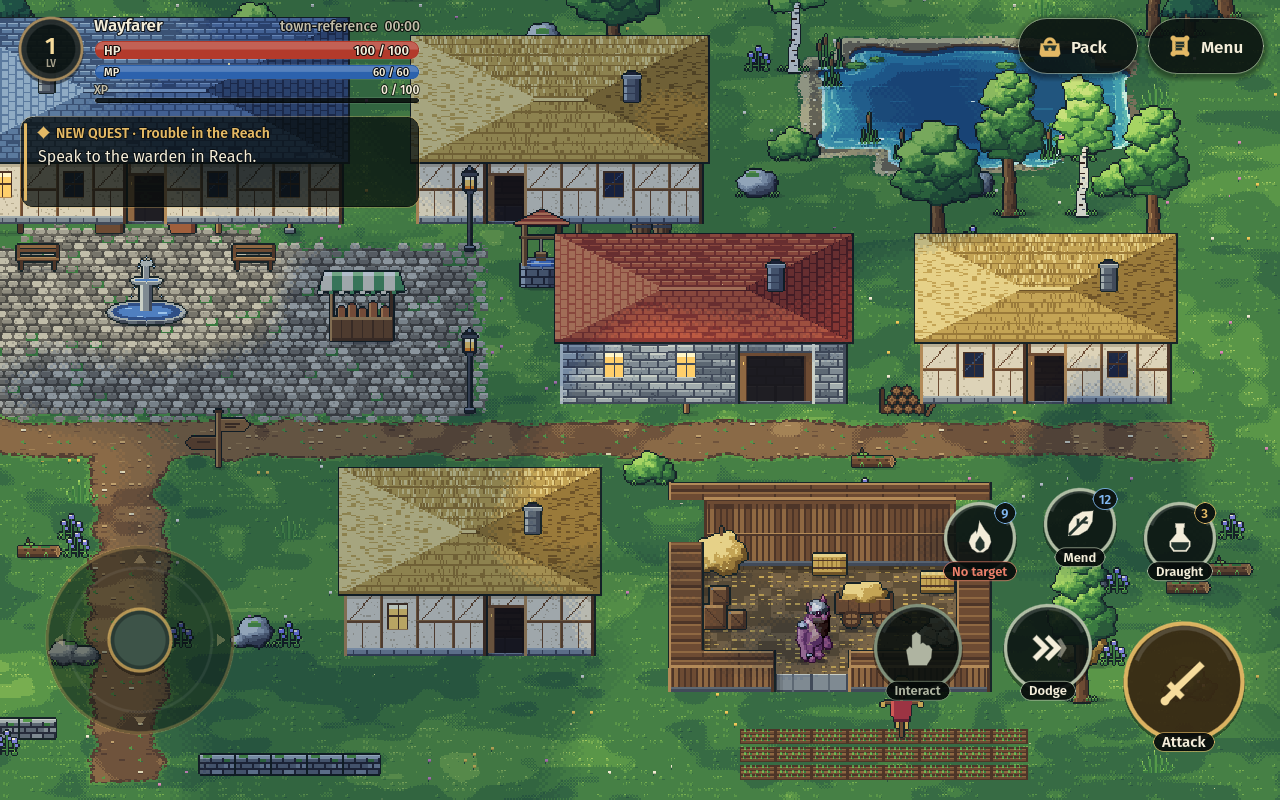
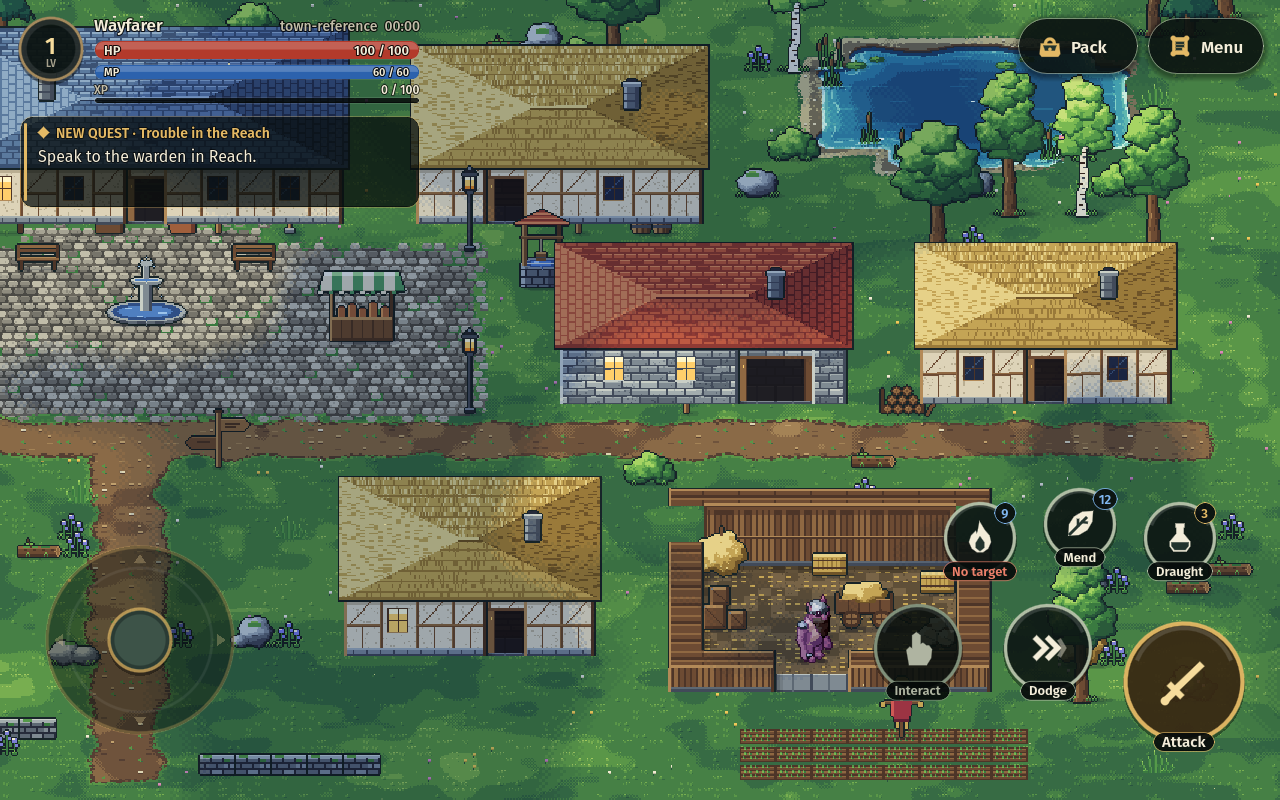
Fit the taller house shell to the generated towns' plots
After merging the town generator: its plots leave four rows between a
house row and the street, and the 54-pixel shell stood over the street's
edge. Walls are now 40 pixels with a 32-pixel doorway and an 8-pixel
loft, 48 pixels in all: exactly four rows.

Claude-Session: https://claude.ai/code/session_011Mxa9ofPqLoqXLixAF9oze

diff --git a/game/dev/TownPlan.cs b/game/dev/TownPlan.cs
@@ -83,12 +83,12 @@ public static class TownBlocks
         new("4a3426"),new("6a4c34"),new("82613f"),new("9a784f"),
         new("5f4f38"),new("786447"),new("c4a455")};
     /// <summary>Height of a house wall on screen: a little taller than a standing character.</summary>
-    public const int Rise=44;
+    public const int Rise=40;
     static ShaderMaterial? wall,floor;
     static Shader? roof;
     static ShaderMaterial Shared(string path)
     {
-        var material=new ShaderMaterial{Shader=GD.Load<Shader>(path)};material.SetShaderParameter("town_palette",Ramp);return material;
+        var material=new ShaderMaterial{Shader=GD.Load<Shader>(path)};material.SetShaderParameter("town_palette",Ramp);material.SetShaderParameter("wall_rise",(float)Rise);return material;
     }
     public static ShaderMaterial Wall=>wall??=Shared("res://game/art/town_wall.gdshader");
     public static ShaderMaterial Floor=>floor??=Shared("res://game/art/town_floor.gdshader");
@@ -138,9 +138,9 @@ public partial class TownRoof : Node2D
 {
     public const float FadeSeconds=.22f;
     /// <summary>How far the roof stands above the wall heads; furniture within stays under it.</summary>
-    public const int Loft=10;
+    public const int Loft=8;
     /// <summary>Height of the doorway opening under its transom.</summary>
-    public const int DoorHeight=34;
+    public const int DoorHeight=32;
     public TownHouse House {get;init;}
     public int Seed {get;init;}
     /// <summary>The wayfarer's ground position.</summary>

diff --git a/docs/TOWN_ASSETS.md b/docs/TOWN_ASSETS.md
@@ -28,8 +28,8 @@ with the doorway in its south wall. `TownPlan.Carve` writes it into the region a
 `Terrain.Floor`, so collision, line of sight and pathing work with no town-specific rules: walls block, the
 doorway is the only way in.
 
-Houses are drawn at the character's scale: walls stand 44 pixels (`TownBlocks.Rise`), a little taller than a
-standing character, and the doorway opening is 34 pixels under a transom.
+Houses are drawn at the character's scale: walls stand 40 pixels (`TownBlocks.Rise`), the height of a
+standing character, and the doorway opening is 32 pixels under a transom.
 
 - **Outside.** `TownRoof` is the shell of the house: a full-height front wall with windows (some lit) and a
   dark doorway with the door standing open, and above it a hipped roof seen from above. It sits in the actor
@@ -44,8 +44,9 @@ standing character, and the doorway opening is 34 pixels under a transom.
   front wall, chimney and doorway shadow fade out over about a fifth of a second, and fade back on leaving.
   Other houses stay shut. Reduced motion switches at once.
 
-A house's shell rises 54 pixels above its back wall. Leave five clear rows between the back of one house and
-the front of the next (or a road), or the nearer roof will stand over them.
+A house's shell rises 48 pixels above its back wall: exactly four tile rows. Leave four clear rows between
+the back of one house and the front of the next (or a road), or the nearer roof will stand over them. The
+generated towns' plots already do.
 
 ## Furniture
 
